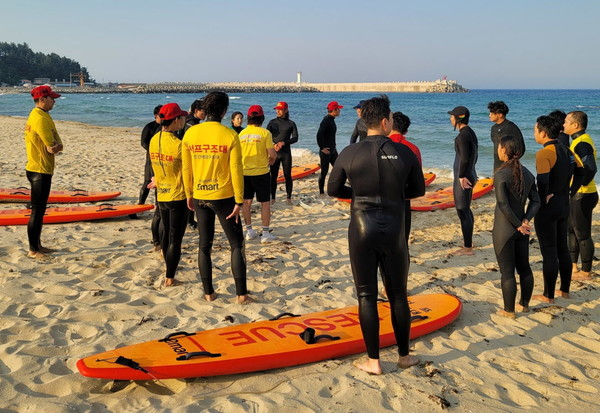
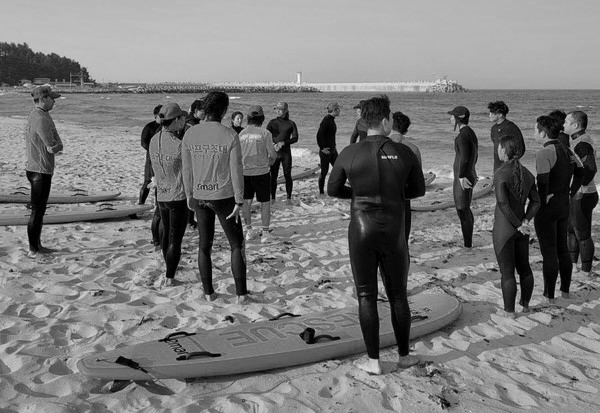
style: value-4 이미지를 서핑페스티벌 단체사진(value-4-2.jpg)으로 교체

diff --git a/src/components/home/ValuesSection.tsx b/src/components/home/ValuesSection.tsx
@@ -27,7 +27,7 @@ const values = [
     title: '지역과 함께하는 성장',
     description: '양양의 지속 가능한 서핑 생태계를 만들어갑니다.',
     imageAlt: '양양군서핑협회 단체 사진',
-    imageSrc: '/images/value-4.png',
+    imageSrc: '/images/value-4-2.jpg',
   },
 ];
 
